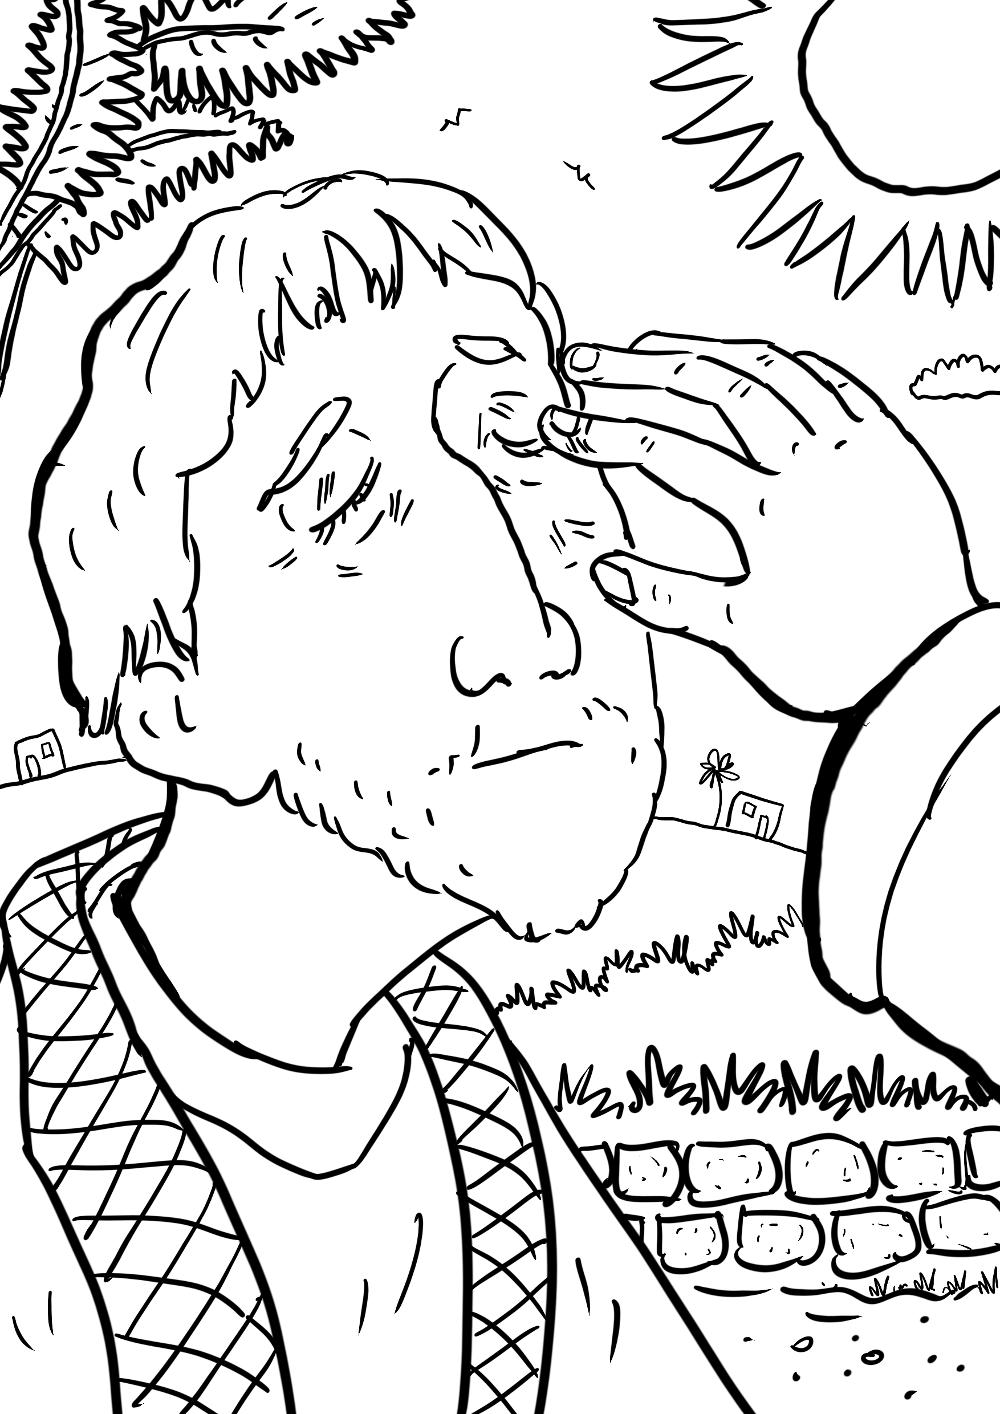
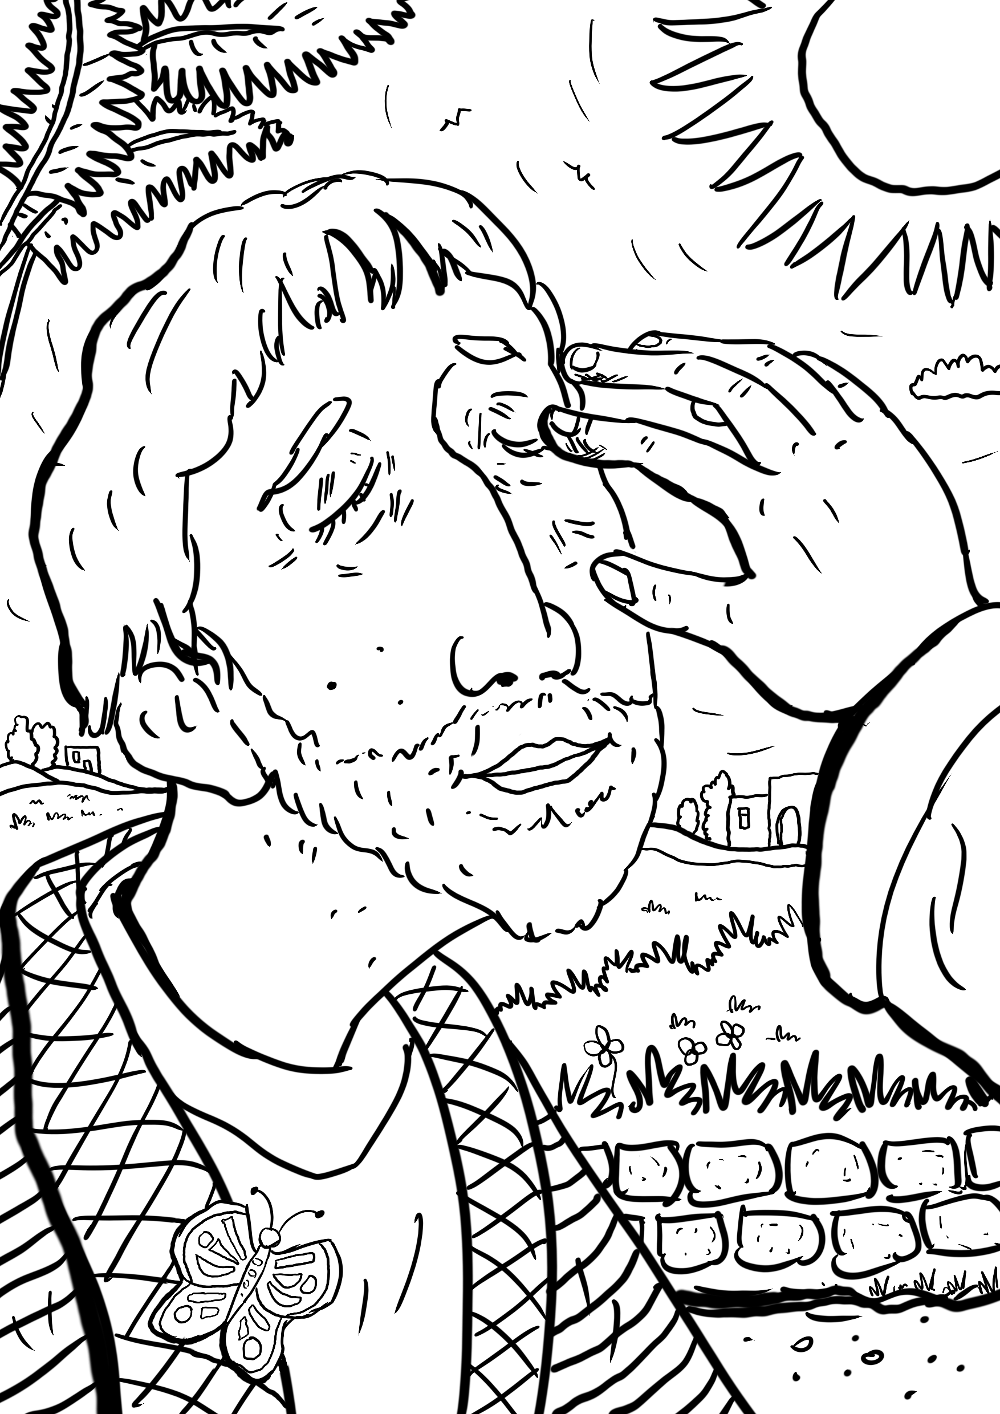
Update 27.

diff --git a/script.js b/script.js
@@ -3,7 +3,7 @@ angular.module('galleryApp', [])
     var gallery = this;
     gallery.language = "ro";
     gallery.work_start_date = new Date(2017,02,12);
-    gallery.worked_hours = 46.5;  // EDIT HERE
+    gallery.worked_hours = 47;  // EDIT HERE
 
     gallery.get_global_progress = function() {
       var index;
@@ -475,7 +475,7 @@ angular.module('galleryApp', [])
       {
         id: 27,
         img: '27.png',
-        done: 70,
+        done: 100,
         title: {
           ro: "Vindecarea orbului din naștere",
           en: "Healing the man blind from birth"
